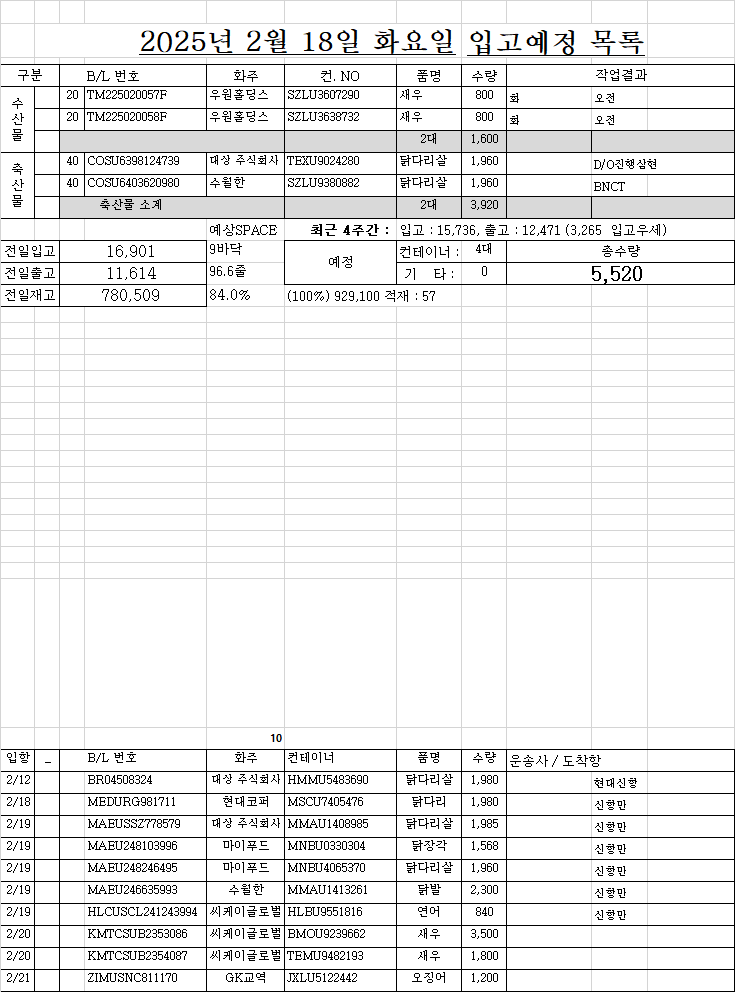
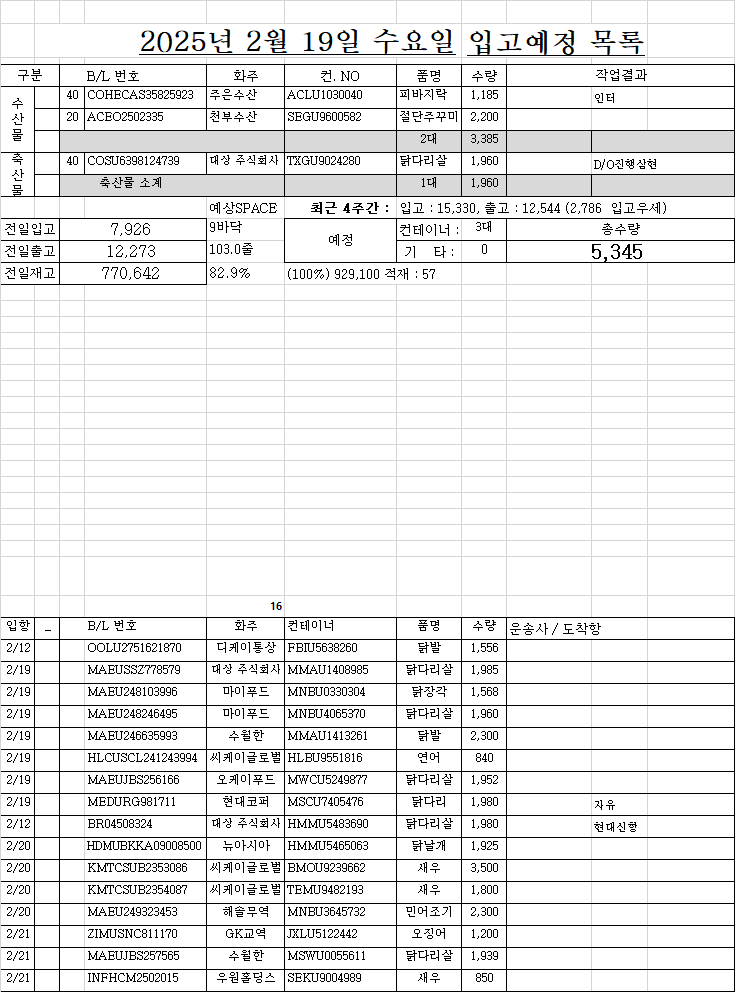
ㄴㅇㄹㄴㅇㄹㄴ

diff --git a/list.html b/list.html
@@ -89,8 +89,8 @@
         <span style="color:blueviolet;font-weight: bold;">1400개는 풀작업으로 포딩 로얄, 24~26일 예정(월~수)</span>
       </div>
     </div>
-    <div><button>2월18일</button><button></button>
-      <div> SI홀푸드 <br>
+    <div><button>2월19일</button><button></button>
+      <div> SI홀푸드 : 18일에서 19일로 변경 (아침에 와 있을것)<br>
         <img src="portal/images/문서연결_리스트/20250218입고예정.png" alt="이미지없음">
 
       </div>
